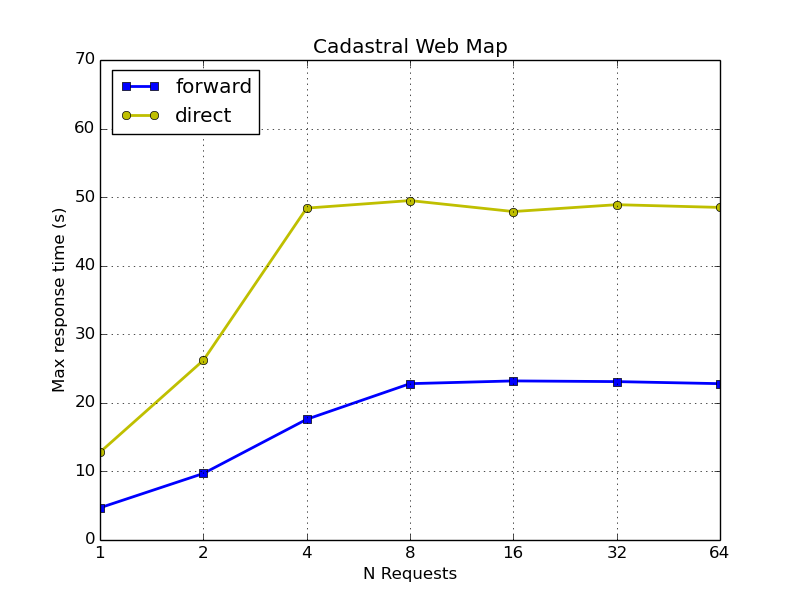
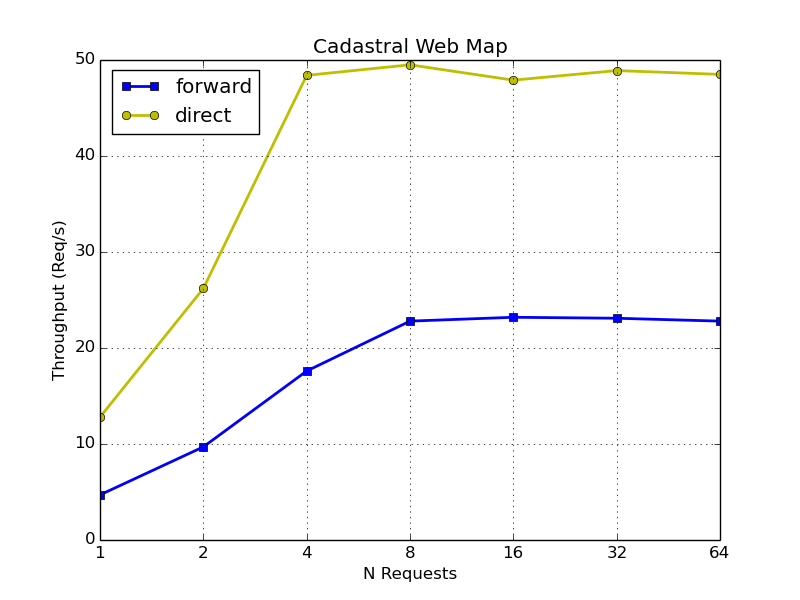
charts falsch beschriftet

diff --git a/charts/create_charts.py b/charts/create_charts.py
@@ -21,16 +21,16 @@ t12 = [1, 2, 4, 8, 16, 32, 64]
 #sqlite = [0.1, 0.1, 0.1, 0.2, 0.8, 2.8, 3.3]
 
 # CWM (req/s)
-#filename = "cwm_req_per_sec_forward_direct"
-#title = "Cadastral Web Map"
-#forward = [4.7, 9.7, 17.6, 22.8, 23.2, 23.1, 22.8]
-#direct = [12.8, 26.2, 48.4, 49.5, 47.9, 48.9, 48.5]
+filename = "cwm_req_per_sec_forward_direct"
+title = "Cadastral Web Map"
+forward = [4.7, 9.7, 17.6, 22.8, 23.2, 23.1, 22.8]
+direct = [12.8, 26.2, 48.4, 49.5, 47.9, 48.9, 48.5]
 
 # CWM (max response time)
-filename = "cwm_max_resp_time_forward_direct"
-title = "Cadastral Web Map"
-forward = [3.8, 3.7, 3.7, 4.0, 5.1, 11.0, 38.0]
-direct = [0.5, 0.5, 0.5, 12.1, 22.2, 58.1, 64.1]
+#filename = "cwm_max_resp_time_forward_direct"
+#title = "Cadastral Web Map"
+#forward = [3.8, 3.7, 3.7, 4.0, 5.1, 11.0, 38.0]
+#direct = [0.5, 0.5, 0.5, 12.1, 22.2, 58.1, 64.1]
 
 # Orthofoto (average)
 #filename = "ortho_resampling_req_per_sec"
@@ -50,14 +50,14 @@ plt.plot(t11, forward,  marker='s', color='b', label='forward', linewidth='2')
 plt.plot(t11, direct, marker='o', color='y', label='direct', linewidth='2')
 
 plt.xlabel('N Requests')
-#plt.ylabel('Throughput (Req/s)')
-plt.ylabel('Max response time (s)')
+plt.ylabel('Throughput (Req/s)')
+#plt.ylabel('Max response time (s)')
 plt.title(title)
 plt.legend(bbox_to_anchor=(0.02, 0.98), loc=2, borderaxespad=0.)
 
 plt.xticks( [1, 2, 3, 4, 5, 6, 7],  t12 )
 #plt.ylim([0, 210])
-plt.ylim([0, 70])
+plt.ylim([0, 50])
 
 plt.grid(b=True, which='major', linestyle='dotted') 
 
